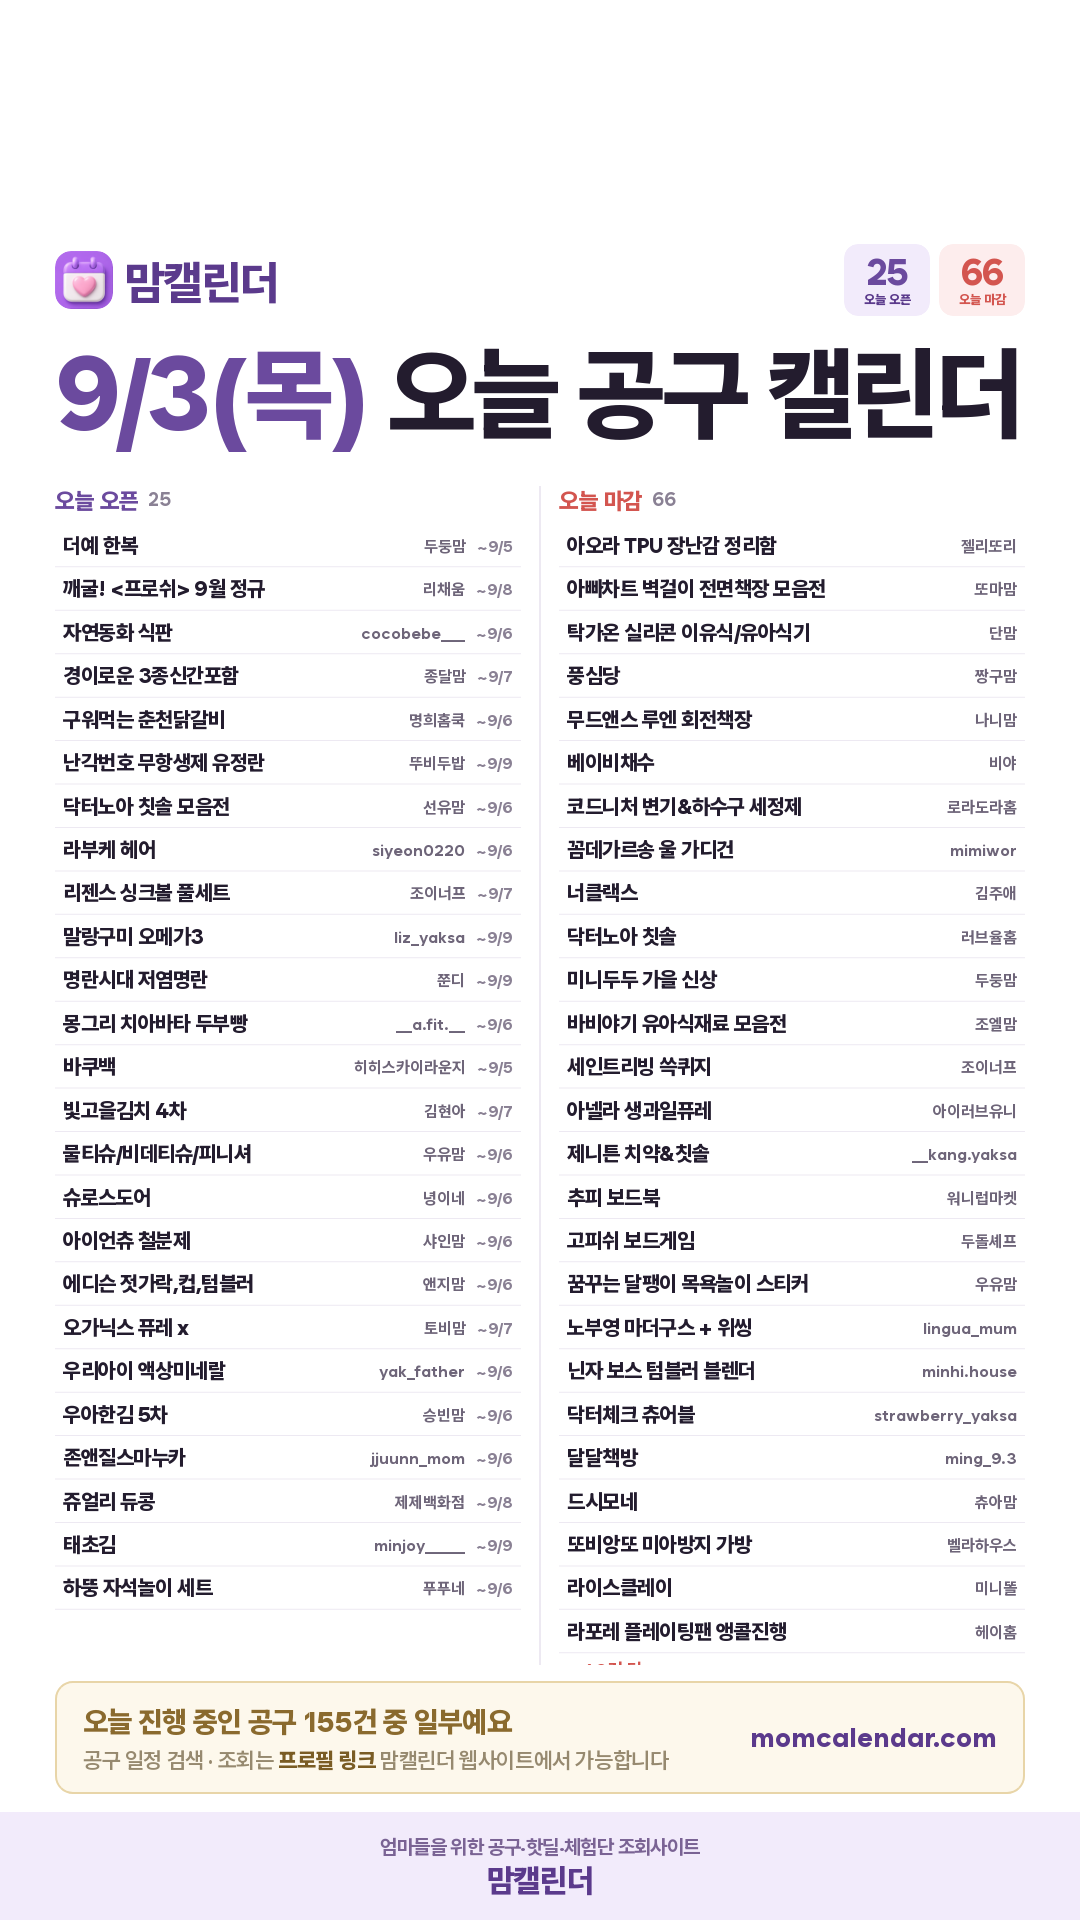
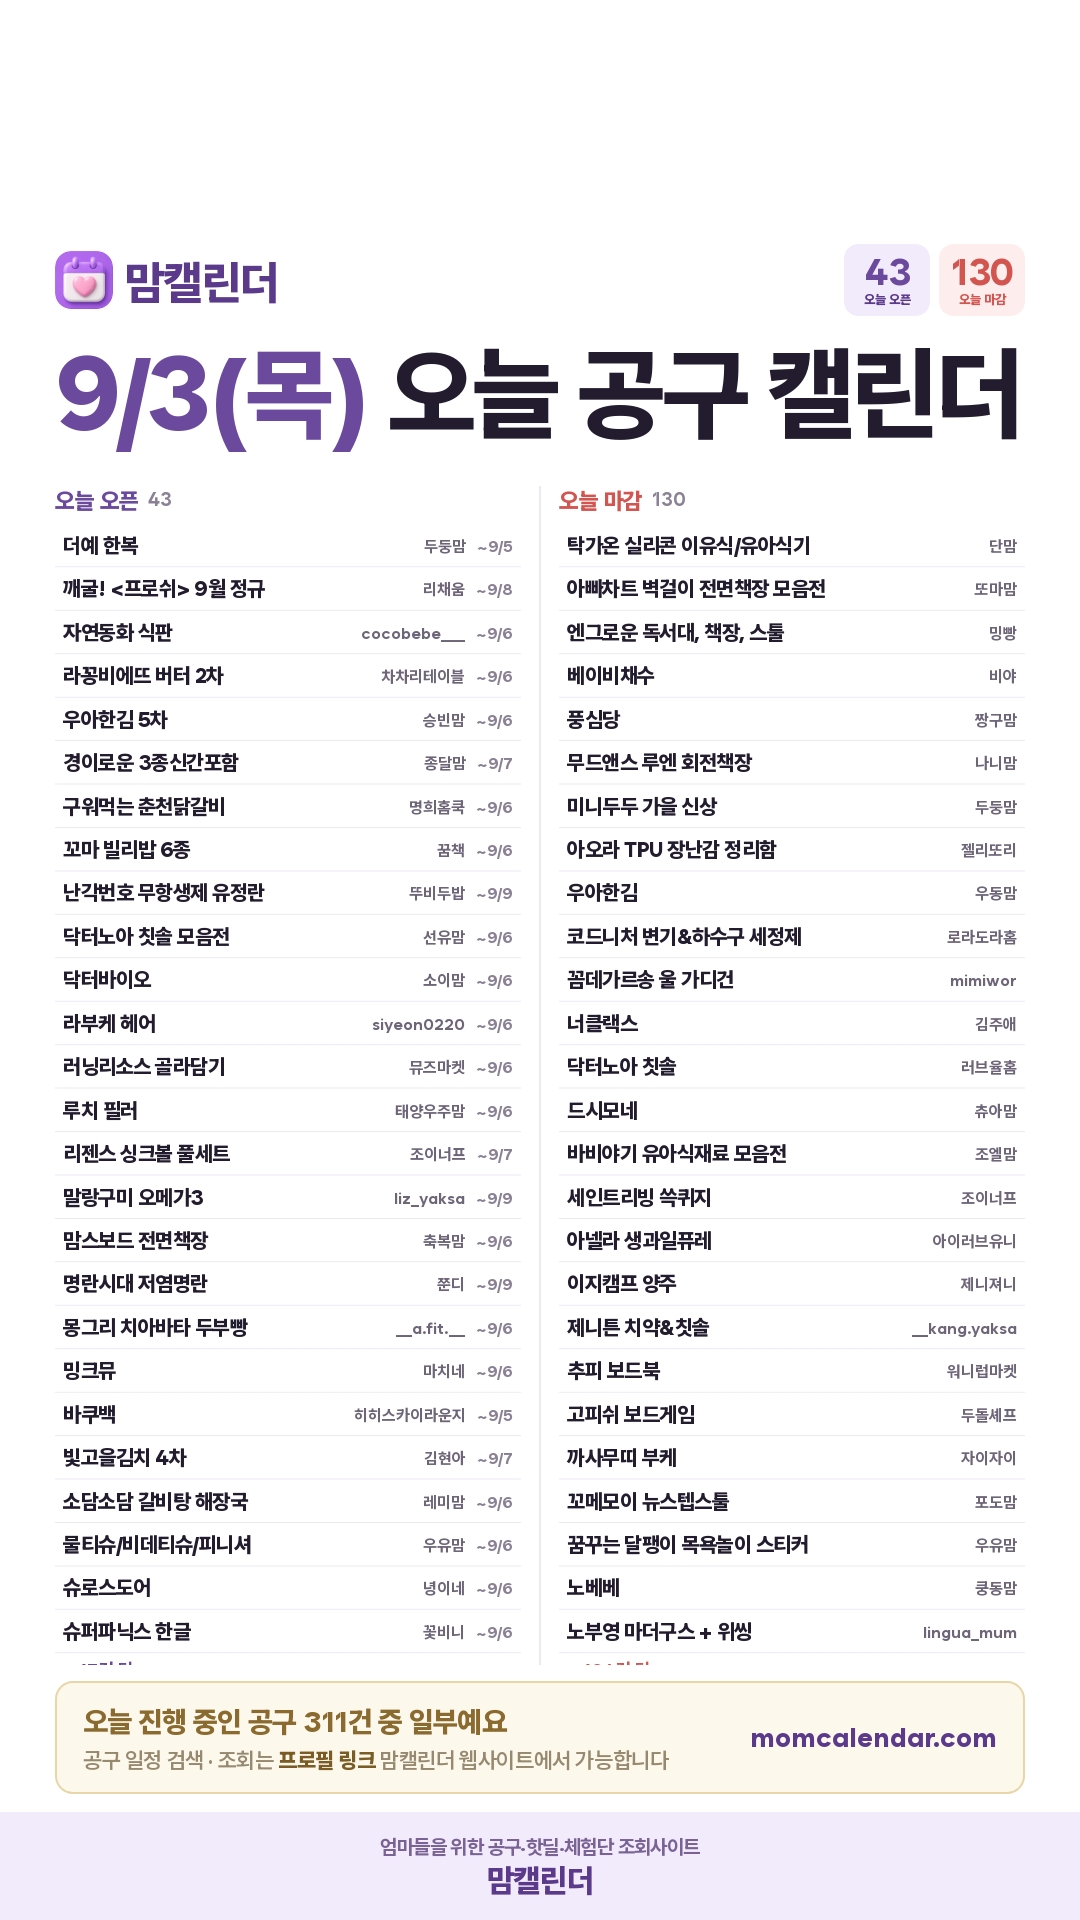
아침 인스타 카드 (2026-08-31)

diff --git a/daily/2026-09-03.html b/daily/2026-09-03.html
@@ -19,7 +19,7 @@ textarea{width:100%;height:260px;border:1px solid #E3DCEF;border-radius:10px;pad
 .todo p{font-size:12.5px;color:#6B6379;line-height:1.75;margin-top:6px}
 .todo a{color:#5B2E8C;font-weight:700}
 </style></head><body>
-<div class="hd"><div class="wrap"><h1>9월 3일(목) 인스타 카드</h1><p>오픈 25건 · 마감 66건</p></div></div>
+<div class="hd"><div class="wrap"><h1>9월 3일(목) 인스타 카드</h1><p>오픈 43건 · 마감 130건</p></div></div>
 <div class="wrap">
   
   <div class="card"><img src="./2026-09-03.png" alt="오늘 공구 카드"></div>
@@ -30,7 +30,7 @@ textarea{width:100%;height:260px;border:1px solid #E3DCEF;border-radius:10px;pad
 맘캘린더에서 공유드리는
 9월 3일(목) 오늘 공구 캘린더
 
-오픈 25건 · 마감 61건
+오픈 42건 · 마감 112건
 
 ━━━━━━━━━━━━━━
 
@@ -38,79 +38,77 @@ textarea{width:100%;height:260px;border:1px solid #E3DCEF;border-radius:10px;pad
 · 더예 한복 — 두둥맘 (~9/5)
 · 깨굴! &lt;프로쉬&gt; 9월 정규 기획전 — 리채움 (~9/8)
 · 자연동화 곡물도자기 식판 — cocobebe___ (~9/6)
+· 라꽁비에뜨 버터 2차 — 차차리테이블 (~9/6)
+· 우아한김 5차 — 승빈맘 (~9/6)
 · 경이로운 팝업북 3종신간포함 — 종달맘 (~9/7)
 · 구워먹는 춘천닭갈비 — 명희홈쿡 (~9/6)
+· 꼬마 빌리밥 6종 — 꿈책 (~9/6)
 · 난각번호 1번 무항생제 유정란 — 뚜비두밥 (~9/9)
 · 닥터노아 칫솔 모음전 — 선유맘 (~9/6)
+· 닥터바이오 — 소이맘 (~9/6)
 · 라부케 헤어 — siyeon0220 (~9/6)
+· 러닝리소스 골라담기 — 뮤즈마켓 (~9/6)
+· 루치 필러 — 태양우주맘 (~9/6)
 · 리젠스 프리미엄 싱크볼 풀세트 4차 — 조이너프 (~9/7)
 · 말랑구미 뮴키즈 오메가3 — liz_yaksa (~9/9)
+· 맘스보드 전면책장 — 축복맘 (~9/6)
 · 명란시대 저염명란 — 쭌디 (~9/9)
 · 몽그리 쌀빵 초코빵 치아바타 두부빵 — __a.fit.__ (~9/6)
+· 밍크뮤 — 마치네 (~9/6)
 · 바쿠백 — 히히스카이라운지 (~9/5)
 · 빛고을김치 4차 — 김현아 (~9/7)
+· 소담소담 갈비탕 해장국 — 레미맘 (~9/6)
 · 소중한 습관 아기 물티슈/비데티슈/피니셔 — 우유맘 (~9/6)
 · 슈로스도어 — 녕이네 (~9/6)
+· 슈퍼파닉스 한글 — 꽃비니 (~9/6)
+· 씨밀렉스 레폴트 터치박스 닛띵 담담정리함 — 르미뇽 (~9/6)
+· 아약 키네랄 5차 — 약파더 (~9/9)
 · 아이언츄 철분제 — 샤인맘 (~9/6)
 · 에디슨 젓가락,컵,텀블러 골라담기 — 앤지맘 (~9/6)
+· 에피서지 80mg·200mg — 오슈마켓 (~9/6)
 · 오가닉스 퓨레 x (포리지 마지막) — 토비맘 (~9/7)
+· 옻칠 수저·옻칠 트레이 — 라온살림 (~9/6)
+· 요리의정수 꽃게가루 육수 — 투찬이네 (~9/7)
 · 우리아이 액상미네랄 — yak_father (~9/6)
-· 우아한김 5차 — 승빈맘 (~9/6)
-· 존앤질스마누카 — jjuunn_mom (~9/6)
-· 쥬얼리 듀콩 — 제제백화점 (~9/8)
-· 태초김 — minjoy_____ (~9/9)
-· 하뚱 세이하우스 + 자석놀이 세트 — 푸푸네 (~9/6)
+…나머지 7건은 맘캘린더 사이트에서 보실 수 있어요
 
 ⏰ 오늘 마감하는 공구
-· 아오라 TPU 장난감 정리함 — 젤리또리
-· 아빠차트 벽걸이 전면책장 모음전 — 또마맘
 · 탁가온 실리콘 이유식/유아식기 — 단맘
+· 아빠차트 벽걸이 전면책장 모음전 — 또마맘
+· 엔그로운 독서대, 책장, 스툴 — 밍빵
+· 베이비채수 — 비야
 · 풍심당 — 짱구맘
 · 무드앤스 루엔 회전책장 — 나니맘
-· 베이비채수 — 비야
+· 미니두두 가을 신상 — 두둥맘
+· 아오라 TPU 장난감 정리함 — 젤리또리
+· 우아한김 — 우동맘
 · 코드니처 변기&amp;하수구 세정제 — 로라도라홈
 · 꼼데가르송 울 가디건 — mimiwor
 · 너클랙스 — 김주애
 · 닥터노아 칫솔 — 러브율홈
-· 미니두두 가을 신상 — 두둥맘
+· 드시모네 — 츄아맘
 · 바비야기 유아식재료 모음전 — 조엘맘
 · 세인트리빙 쓱퀴지 — 조이너프
 · 아넬라 생과일퓨레 — 아이러브유니
+· 이지캠프 양주 — 제니져니
 · 제니튼 치약&amp;칫솔 — __kang.yaksa
 · 추피 보드북 — 워니럽마켓
 · 고피쉬 보드게임 — 두돌셰프
+· 까사무띠 부케 — 자이자이
+· 꼬메모이 뉴스텝스툴 — 포도맘
 · 꿈꾸는 달팽이 목욕놀이 스티커 — 우유맘
+· 노베베 — 쿵동맘
 · 노부영 마더구스 + 위씽 — lingua_mum
 · 닌자 보스 텀블러 블렌더 — minhi.house
+· 닥터라인 모음전 — 소소하우스
 · 닥터체크 원퍼데이 알티지 오메가3 츄어블 — strawberry_yaksa
 · 달달책방 — ming_9.3
-· 드시모네 — 츄아맘
+· 더좋은 THE 속편한 키위 — 
+· 델라맘마 팩트 — 란쥬
+· 디어커스 도담도담 안심커버 — 모락맘
 · 또비앙또 미아방지 가방 — 벨라하우스
 · 라이스클레이 — 미니똘
-· 라포레 플레이팅팬 앵콜진행 — 헤이홈
-· 래디어스 칫솔 — 러블리트니
-· 레드루트 캡슐표백제 런칭 — 도하상점
-· 매직캔 — 켈리맘
-· 메디인랩 전제품 — 하늘
-· 모두의육수 — 봉봉테이블
-· 무항생제 활새우 — 명희홈쿡
-· 물때 제거제 — 라미홈
-· 밀키요 요거트 — 옐로우맘
-· 바이라샴푸 — aiou__
-· 버터팬츠 — 제제백화점
-· 베르베린·글루타치온·키플러스 — jjuunn_mom
-· 보니버스 아기체육관 — 쀼맘
-· 붐케어 스르륵 하이체어 — 축복맘
-· 뿌리는 공기청정기 — inyoung161
-· 사회정서 금융교육 경제 — 김똥구리
-· 솔리디아 압박밴드 — plie_maden
-· 쇼퍼박 의류데이 — parksovin
-· 아소부 텀블러 미니베스티·베스티 — 이현찰퐁맘
-· 엉파 양고기 — 현경
-· 에브리데이 365 고려홍삼 100포 — heijony
-· 엔그로운 독서대, 책장, 스툴 — 밍빵
-· 엘더베리 시럽 — 뭉실맘
-…나머지 13건은 맘캘린더 사이트에서 보실 수 있어요
+…나머지 77건은 맘캘린더 사이트에서 보실 수 있어요
 
 ━━━━━━━━━━━━━━
 
@@ -123,12 +121,12 @@ textarea{width:100%;height:260px;border:1px solid #E3DCEF;border-radius:10px;pad
 ⚠ 공구 일정은 판매자 사정에 따라 변경되거나 조기 마감될 수 있어요. 구매 전에 해당 셀러 계정에서 한 번 더 확인해 주세요.
 
 #맘캘린더 #공구일정 #육아공구 #육아용품 #책육아 #맘스타그램 #공동구매 #육아정보 #공구정보 #육아템 #먹거리공구 #살림템</textarea>
-    <div class="meta">2182자 / 2200자 · 오픈 25/25 · 마감 48/61</div>
+    <div class="meta">2182자 / 2200자 · 오픈 35/42 · 마감 35/112</div>
     <button class="btn btn2" onclick="cp('cap','캡션')">캡션 복사</button>
   </div>
   <div class="card">
     <div class="meta" style="margin:0 0 8px;font-weight:800;color:#5B2E8C">네이버 블로그용 (blog.naver.com/momcal) — 수정해서 쓰셔도 돼요</div>
-    <textarea id="btitle" style="height:54px">9월 3일(목) 인스타 공구일정 총정리 | 깨굴 프로쉬·말랑구미 뮴키즈·아이언츄·우리아이 공구 오픈</textarea>
+    <textarea id="btitle" style="height:54px">9월 3일(목) 인스타 공구일정 총정리 | 깨굴 프로쉬·말랑구미 뮴키즈·아약·아이언츄·에피서지 공구 오픈</textarea>
     <button class="btn btn2" onclick="cp('btitle','블로그 제목')">블로그 제목 복사</button>
     <textarea id="bbody" style="margin-top:9px">맘캘린더 채널 한눈에
 · 전체 공구 일정 실시간 검색 → https://momcalendar.com
@@ -141,39 +139,57 @@ textarea{width:100%;height:260px;border:1px solid #E3DCEF;border-radius:10px;pad
 · 카톡 수다방 → https://open.kakao.com/o/gr2kJhCh
 ─────────────
 
-9월 3일(목), 오늘 새로 오픈하는 인스타 공구일정 25건을 카테고리별로 정리했어요.
-오늘 마감되는 공구도 66건 있으니 놓치지 마세요.
+9월 3일(목), 오늘 새로 오픈하는 인스타 공구일정 43건을 카테고리별로 정리했어요.
+오늘 마감되는 공구도 130건 있으니 놓치지 마세요.
 
-■ 오늘 오픈하는 공구 25건
+■ 오늘 오픈하는 공구 43건
 
 [육아]
 · 경이로운 팝업북 3종신간포함 — 종달맘 (~9/7 마감)
+· 꼬마 빌리밥 6종 — 꿈책 (~9/6 마감)
 · 더예 한복 — 두둥맘 (~9/5 마감)
+· 러닝리소스 골라담기 — 뮤즈마켓 (~9/6 마감)
+· 맘스보드 전면책장 — 축복맘 (~9/6 마감)
+· 밍크뮤 — 마치네 (~9/6 마감)
 · 소중한 습관 아기 물티슈/비데티슈/피니셔 — 우유맘 (~9/6 마감)
+· 슈퍼파닉스 한글 — 꽃비니 (~9/6 마감)
 · 에디슨 젓가락,컵,텀블러 골라담기 — 앤지맘 (~9/6 마감)
 · 오가닉스 퓨레 x (포리지 마지막) — 토비맘 (~9/7 마감)
 · 자연동화 곡물도자기 식판 — @cocobebe___ (~9/6 마감)
+· 펠트로스튜디오 — jjuunn_mom (~9/6 마감)
 · 하뚱 세이하우스 + 자석놀이 세트 — 푸푸네 (~9/6 마감)
 
 [리빙]
 · 닥터노아 칫솔 모음전 — 선유맘 (~9/6 마감)
+· 닥터바이오 — 소이맘 (~9/6 마감)
+· 루치 필러 — 태양우주맘 (~9/6 마감)
 · 리젠스 프리미엄 싱크볼 풀세트 4차 — 조이너프 (~9/7 마감)
 · 바쿠백 — 히히스카이라운지 (~9/5 마감)
 · 슈로스도어 — 녕이네 (~9/6 마감)
+· 씨밀렉스 레폴트 터치박스 닛띵 담담정리함 — 르미뇽 (~9/6 마감)
+· 옻칠 수저·옻칠 트레이 — 라온살림 (~9/6 마감)
 
 [식품]
 · 구워먹는 춘천닭갈비 — 명희홈쿡 (~9/6 마감)
 · 난각번호 1번 무항생제 유정란 — 뚜비두밥 (~9/9 마감)
+· 라꽁비에뜨 버터 2차 — 차차리테이블 (~9/6 마감)
 · 명란시대 저염명란 — 쭌디 (~9/9 마감)
 · 몽그리 쌀빵 초코빵 치아바타 두부빵 — __a.fit.__ (~9/6 마감)
 · 빛고을김치 4차 — 김현아 (~9/7 마감)
+· 소담소담 갈비탕 해장국 — 레미맘 (~9/6 마감)
+· 요리의정수 꽃게가루 육수 — 투찬이네 (~9/7 마감)
 · 우아한김 5차 — 승빈맘 (~9/6 마감)
+· 자숙문어 — keepgoing_becky (~9/6 마감)
 · 태초김 — minjoy_____ (~9/9 마감)
+· 통미김 — 러브모모 (~9/6 마감)
 
 [건강]
 · 말랑구미 뮴키즈 오메가3 — liz_yaksa (~9/9 마감)
+· 아약 키네랄 5차 — 약파더 (~9/9 마감)
 · 아이언츄 철분제 — 샤인맘 (~9/6 마감)
+· 에피서지 80mg·200mg — 오슈마켓 (~9/6 마감)
 · 우리아이 액상미네랄 — yak_father (~9/6 마감)
+· 저스트글로우 킬레이트 마그네슘 — 약사남 (~9/9 마감)
 · 존앤질스마누카 — jjuunn_mom (~9/6 마감)
 
 [뷰티]
@@ -185,77 +201,141 @@ textarea{width:100%;height:260px;border:1px solid #E3DCEF;border-radius:10px;pad
 [패션]
 · 쥬얼리 듀콩 — 제제백화점 (~9/8 마감)
 
-■ 오늘 마감하는 공구 66건
+■ 오늘 마감하는 공구 130건
+· am 이태리 텀블러 2차 — 집꿀
+· NMN 트랜스레스베라트롤 피세틴 — 쏘핏소윤
 · 고피쉬 보드게임 — 두돌셰프
+· 까사무띠 부케 — 자이자이
+· 꼬메모이 뉴스텝스툴 — 포도맘
 · 꼼데가르송 울 가디건 — mimiwor
 · 꿈꾸는 달팽이 목욕놀이 스티커 — 우유맘
 · 너클랙스 — 김주애
+· 노베베 — 쿵동맘
 · 노부영 마더구스 + 위씽 — lingua_mum
 · 닌자 보스 텀블러 블렌더 — minhi.house
 · 닌자 블렌드보스 — minhi.house
 · 닥터노아 칫솔 — 러브율홈
+· 닥터라인 모음전 — 소소하우스
 · 닥터체크 원퍼데이 알티지 오메가3 츄어블 — strawberry_yaksa
 · 달달책방 — ming_9.3
+· 더좋은 THE 속편한 키위 — 
+· 델라맘마 팩트 — 란쥬
 · 드시모네 — 츄아맘
+· 디어커스 도담도담 안심커버 — 모락맘
 · 또비앙또 미아방지 가방 — 벨라하우스
 · 라이스클레이 — 미니똘
 · 라포레 플레이팅팬 앵콜진행 — 헤이홈
 · 래디어스 칫솔 — 러블리트니
+· 러브모모x손정옥 1++ 언양불고기 "250g 단독출시" — 러브모모
 · 레드루트 캡슐표백제 런칭 — 도하상점
+· 레몬바스켓 한복 — 벨리맘
+· 리꼬 루나로커 슬라이딩램프 — 솔맘
+· 리라 그루브 색연필 연필 — 지지마마
+· 리라그루브 연필 — 리리맘
+· 리틀콩 가을 실내복 — 믿쓰릴리맘
+· 마라스 소금 — healthy_siwon
+· 마이아 멀티쿠커 — 럽엘리
+· 맘이수 채수 — 럽엘리
 · 매직캔 — 켈리맘
 · 메디인랩 전제품 — 하늘
+· 모도리 깔끔도마 칼세트 — 홈앤홈
 · 모두의육수 — 봉봉테이블
+· 모티연어 — son.mom_recipe
 · 무드앤스 루엔 회전책장 — 나니맘
 · 무항생제 활새우 — 명희홈쿡
 · 물때 제거제 — 라미홈
 · 미니두두 가을 신상 — 두둥맘
+· 미스티파이 채칼탈수기 — 쥬홈
 · 밀키요 요거트 — 옐로우맘
 · 바비야기 유아식재료 모음전 — 조엘맘
 · 바이라샴푸 — aiou__
+· 바이오메라 아기 유산균 — 사랑이맘
 · 버터팬츠 — 제제백화점
 · 베르베린·글루타치온·키플러스 — jjuunn_mom
+· 베베스완 아기띠 — 페이보릿하우스
 · 베이비채수 — 비야
 · 보니버스 아기체육관 — 쀼맘
 · 붐케어 스르륵 하이체어 — 축복맘
+· 비오비타 우리가족 리포퍼 철분 — 
 · 뿌리는 공기청정기 — inyoung161
+· 사파 플레이어 — 꿀빵이네
+· 사파리 아장아장 연합전 — 해피엘
 · 사회정서 금융교육 경제 — 김똥구리
+· 세이펜 5세대 세이톡 — 백서공주
 · 세인트리빙 쓱퀴지 — 조이너프
+· 소중한습관 물티슈 — 엘쓰맘
 · 솔리디아 압박밴드 — plie_maden
 · 쇼퍼박 의류데이 — parksovin
+· 수량 부끄럽지 않은 감자탕 — jjuunn_mom
+· 슈슈비 클립매트 3차 — 켈리맘
+· 스토피아 올스텐 세탁바구니 — ggom_susalim
+· 쌀카스테라 — 하정맘
+· 아가31도 한끼템 — 떠아니네
 · 아넬라 생과일퓨레 — 아이러브유니
 · 아빠차트 벽걸이 전면책장 모음전 — 또마맘
 · 아소부 텀블러 미니베스티·베스티 — 이현찰퐁맘
 · 아오라 TPU 장난감 정리함 — 젤리또리
+· 아워뉴트리 락토비피도LGG 유산균 — 약사비책
+· 알록달록 아기그림책 — 
 · 알티지 오메가3 츄어블 — eunha__yak
+· 어그 슈즈 — yooojung4
+· 어그 신상 — 나린맘
+· 언양불고기 — 리본홈
 · 엉파 양고기 — 현경
+· 에디슨 골라담기 — 도하
 · 에브리데이 365 고려홍삼 100포 — heijony
 · 엔그로운 독서대, 책장, 스툴 — 밍빵
 · 엘더베리 시럽 — 뭉실맘
 · 온가족 오메가3 — master_yewon
+· 올비건 오메가3 — 이준
+· 올스텐 욕실 바스켓 — 째째홈
+· 올유베베 가을신상 — 라리맘
+· 우리집티 작두콩 수세미차 — 딸기약사
 · 우아한김 — 우동맘
+· 우잇 치킨너겟 — 또맘
+· 이노시콜 — 반채영
 · 이지캠프 양주 — 제니져니
 · 이지컷 네임스티커 / 스쿨라인 (팀or 학년반 두줄네임스티커)* 부터 출고 — 밥좀주이서
 · 이큐 — 송엘라
 · 이큐의 천재들 — 워니럽마켓
+· 이키 실내복 — 이니맘
+· 일프로 가을 모음전 — 또하맘
+· 장수천 한방 장어 — 시온이네
 · 정글몬스터 칫솔치약 — 0909iii09
 · 제니튼 치약&amp;칫솔 — __kang.yaksa
+· 제철 서해오징어 — 명희홈쿡
 · 주니 이유식 모음 — 디어마더수현
+· 주니 자기주도 물컵 2in1컵 — 따리따리
 · 주방신박템1 무선 초퍼 — 미르홈
+· 찐티 보리차 옥수수차 — 여울맘
+· 차앤맘 — jaejae.mommy
 · 초등 한문장 요약의 힘 — 양아름
 · 추피 보드북 — 워니럽마켓
+· 칼마디케이2 — 도비약사
+· 커들반 노래하는 인형 — 두둥맘
 · 코드니처 변기&amp;하수구 세정제 — 로라도라홈
+· 콤비타 프로폴리스 — 소디
 · 크레욜라 메스프리 — yoonyoon.life
 · 키움 첫 한글 낱말카드 — 또마맘
+· 킨즈 뉴이 부스터 의자 — 가을이네
 · 탁가온 실리콘 이유식/유아식기 — 단맘
+· 터치터치 사운드북 — 산들맘
+· 트니트니 자석블럭 — 또비앙
+· 티지오 우다다 롤매트 28차 — 하온이네
+· 파미아 비타민C — 투하맘
 · 푸름이까꿍 — 러블리트니
 · 풍심당 — 짱구맘
+· 프라데라 1.2L 텀블러 — 깎언니
 · 프로쉬 섬유유연제 시크릿 할인링크 까지 — suabin.home
 · 프로우 괄사 젤클렌저 — west__star__
 · 한끼통살 — to.ongs_
+· 홍경천 멀티비타민 — jaedol_yaksa
+· 흡수 잘 되는 리포퍼철분 — bbuuu_yaksa
+· 흡수율 높은 프리미엄 마그네슘 — eunha__yak
 
 ※ 공구 일정은 판매자 사정에 따라 변경되거나 조기 마감될 수 있어요. 구매 전에 해당 셀러 계정에서 한 번 더 확인해 주세요.
 
-#공구일정 #인스타공구 #인스타공구일정 #공동구매 #오늘의공구 #육아공구 #육아템 #공구모음 #깨굴공구 #말랑구미공구 #아이언츄공구 #우리아이공구 #존앤질스마누카공구 #닥터노아공구 #리젠스공구 #바쿠백공구</textarea>
+#공구일정 #인스타공구 #인스타공구일정 #공동구매 #오늘의공구 #육아공구 #육아템 #공구모음 #깨굴공구 #말랑구미공구 #아약공구 #아이언츄공구 #에피서지공구 #우리아이공구 #저스트글로우공구 #존앤질스마누카공구</textarea>
     <button class="btn" onclick="cp('bbody','블로그 본문 전체')">블로그 본문 전체 복사 (태그 포함)</button>
     <div class="meta">순서: 사진 저장 → 블로그 앱 글쓰기 → 제목 붙여넣기 → 본문 붙여넣기 → 본문 맨 위에 사진 추가 → 발행. 끝의 #태그들은 자동으로 태그가 돼요</div>
   </div>

diff --git a/daily/index.html b/daily/index.html
@@ -1,1 +1,1 @@
-<!DOCTYPE html><meta charset="UTF-8"><meta http-equiv="refresh" content="0;url=./2026-09-02.html">
+<!DOCTYPE html><meta charset="UTF-8"><meta http-equiv="refresh" content="0;url=./2026-09-03.html">
